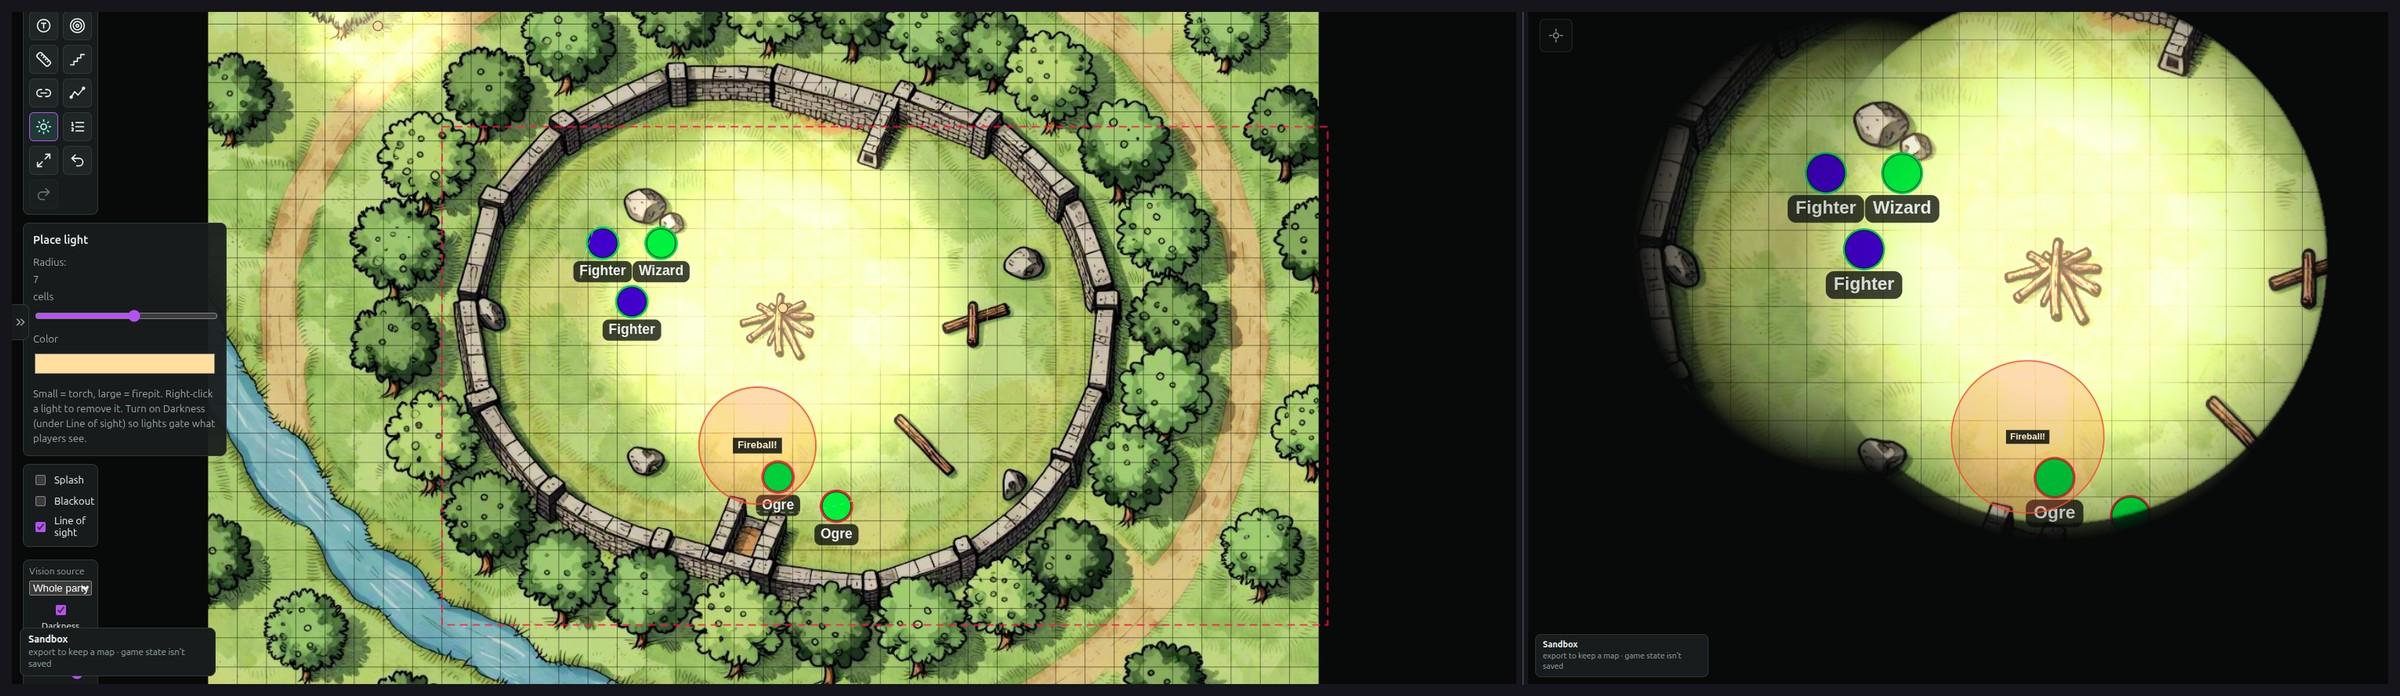
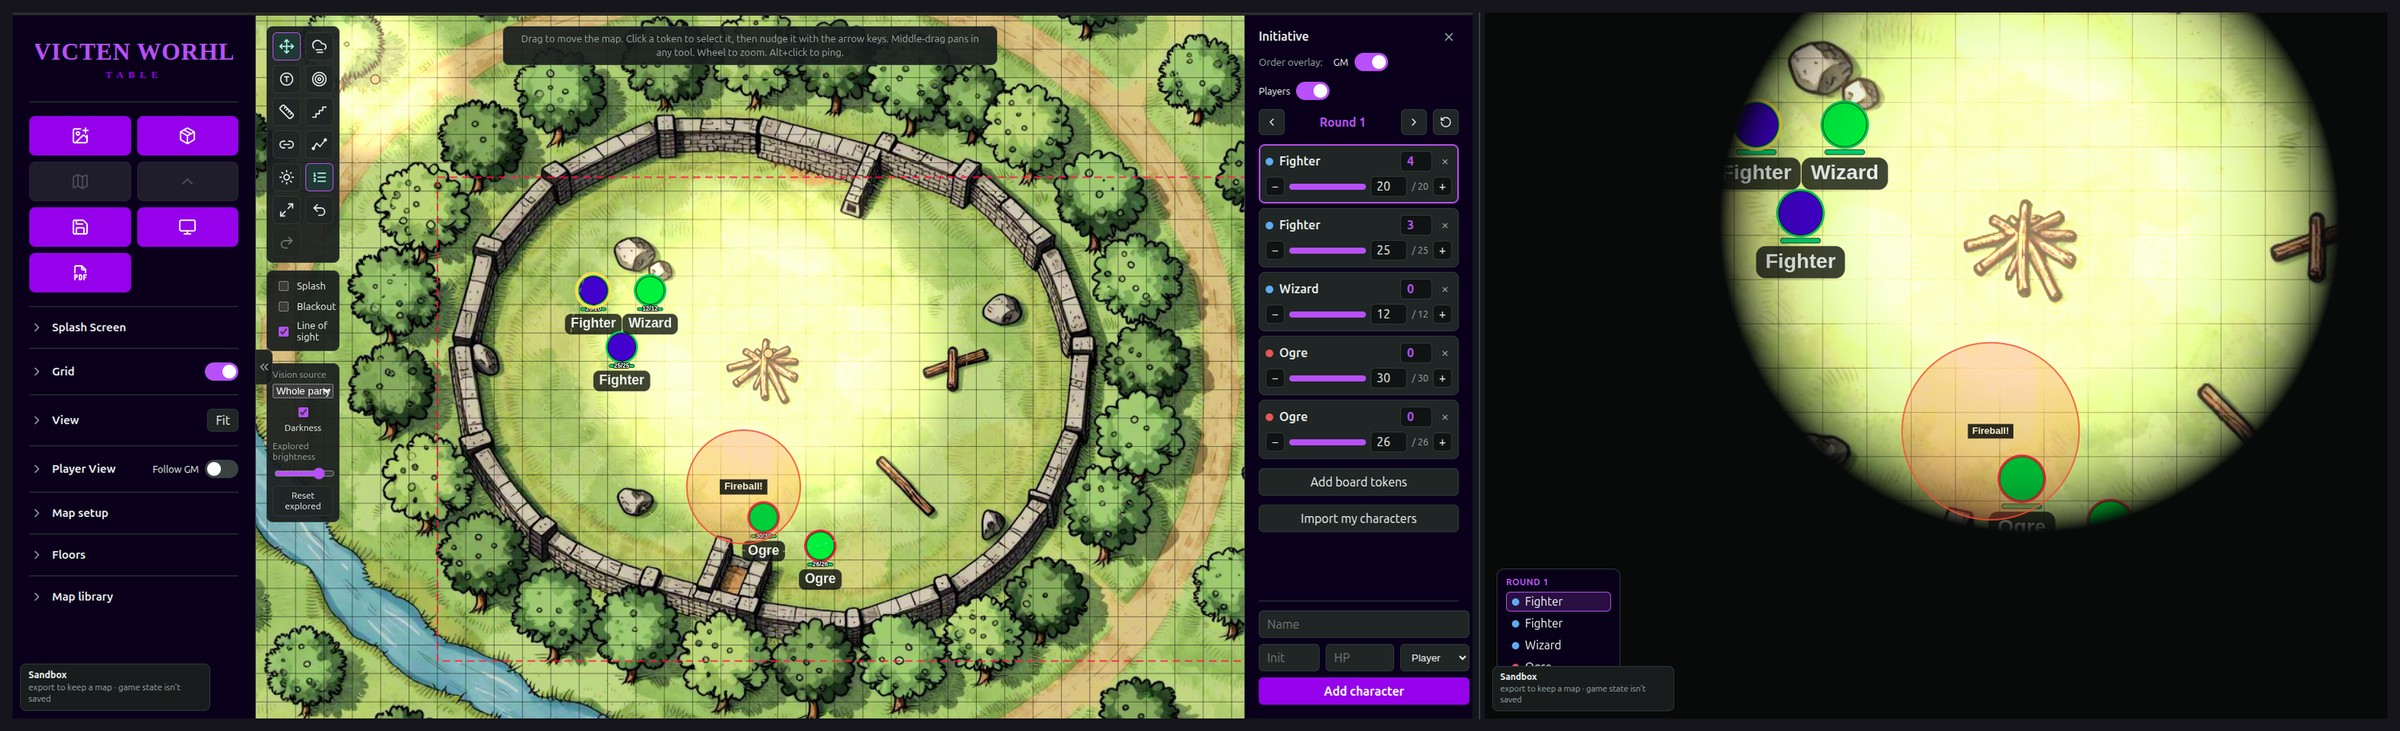
README: highlight initiative tracker (updated GM/player screenshot + copy)

diff --git a/README.md b/README.md
@@ -1,6 +1,6 @@
 # vwag-table
 
-A local-first virtual tabletop. The GM drives a private panel; players see a clean battlemap with fog, dynamic light, and line-of-sight, cast to a second screen. It runs entirely in the browser with no build step, no dependencies, and no account — serve the folder and go, fully offline.
+A local-first virtual tabletop. The GM drives a private panel; players see a clean battlemap with fog, dynamic light, line-of-sight, and a shared initiative tracker, cast to a second screen. It runs entirely in the browser with no build step, no dependencies, and no account — serve the folder and go, fully offline.
 
 **▶ Try it live at [vtt.worhl.net](https://vtt.worhl.net)** — a public sandbox, no install and no account. Drop a map and play; export anything you want to keep.
 
@@ -8,9 +8,9 @@ Two things are **optional add-ons, not requirements**: vwag-table is designed to
 
 ## Screenshots
 
-![vwag-table — GM panel driving a battlemap with a named area of effect, cast to the player display](screenshot.jpg)
+![vwag-table — GM panel with the initiative tracker driving a battlemap; the player display shows the live turn order, fog, dynamic light, and a named area of effect](screenshot.jpg)
 
-*The GM panel on the left; the player display on the right showing the cast map with a named "Fireball" area of effect.*
+*GM panel on the left with the initiative tracker; the player display on the right shows the cast map, the live turn order, and a named "Fireball" area of effect.*
 
 > Demo map: "Stone Ring Camp," an original asset made with [zsky.ai](https://zsky.ai). Fog, tokens, dynamic light, and a named area of effect added in vwag-table.
 